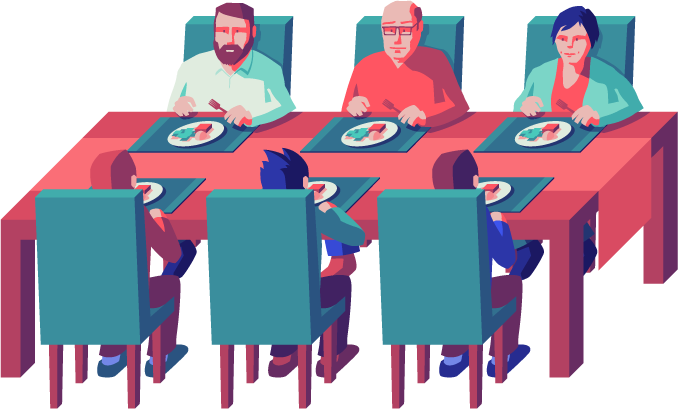
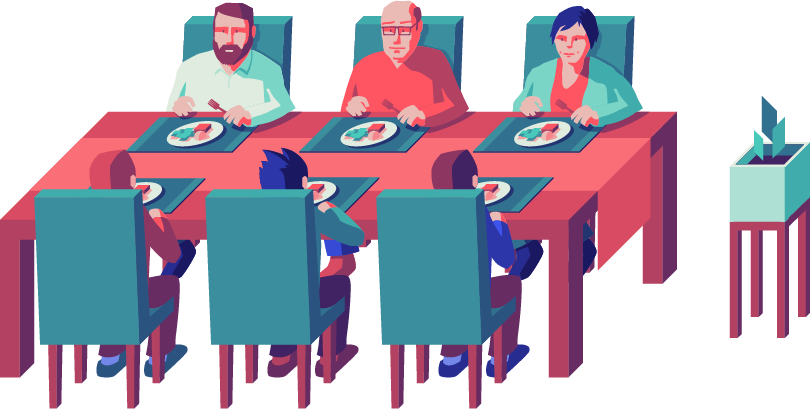
Add plant

diff --git a/src/scenes/Main.js b/src/scenes/Main.js
@@ -95,12 +95,12 @@ export default class Main extends Phaser.Scene {
     });
     
     this.characters = {
-      'Cousin 1':  new Person(this, 'Cousin 1',  855,  340),
-      'Uncle':     new Person(this, 'Uncle',     1025, 340),
-      'Cousin 2':  new Person(this, 'Cousin 2',  1195, 340),
-      'Mom':       new Person(this, 'Mom',       735,  490, true),
-      'Player':    new Person(this, 'Player',    905,  490, true),
-      'Bystander': new Person(this, 'Bystander', 1075, 490, true),
+      'Cousin 1':  new Person(this, 'Cousin 1',  785,  340),
+      'Uncle':     new Person(this, 'Uncle',     955, 340),
+      'Cousin 2':  new Person(this, 'Cousin 2',  1125, 340),
+      'Mom':       new Person(this, 'Mom',       665,  490, true),
+      'Player':    new Person(this, 'Player',    835,  490, true),
+      'Bystander': new Person(this, 'Bystander', 1005, 490, true),
     };
     
     const tween = this.tweens.add({
